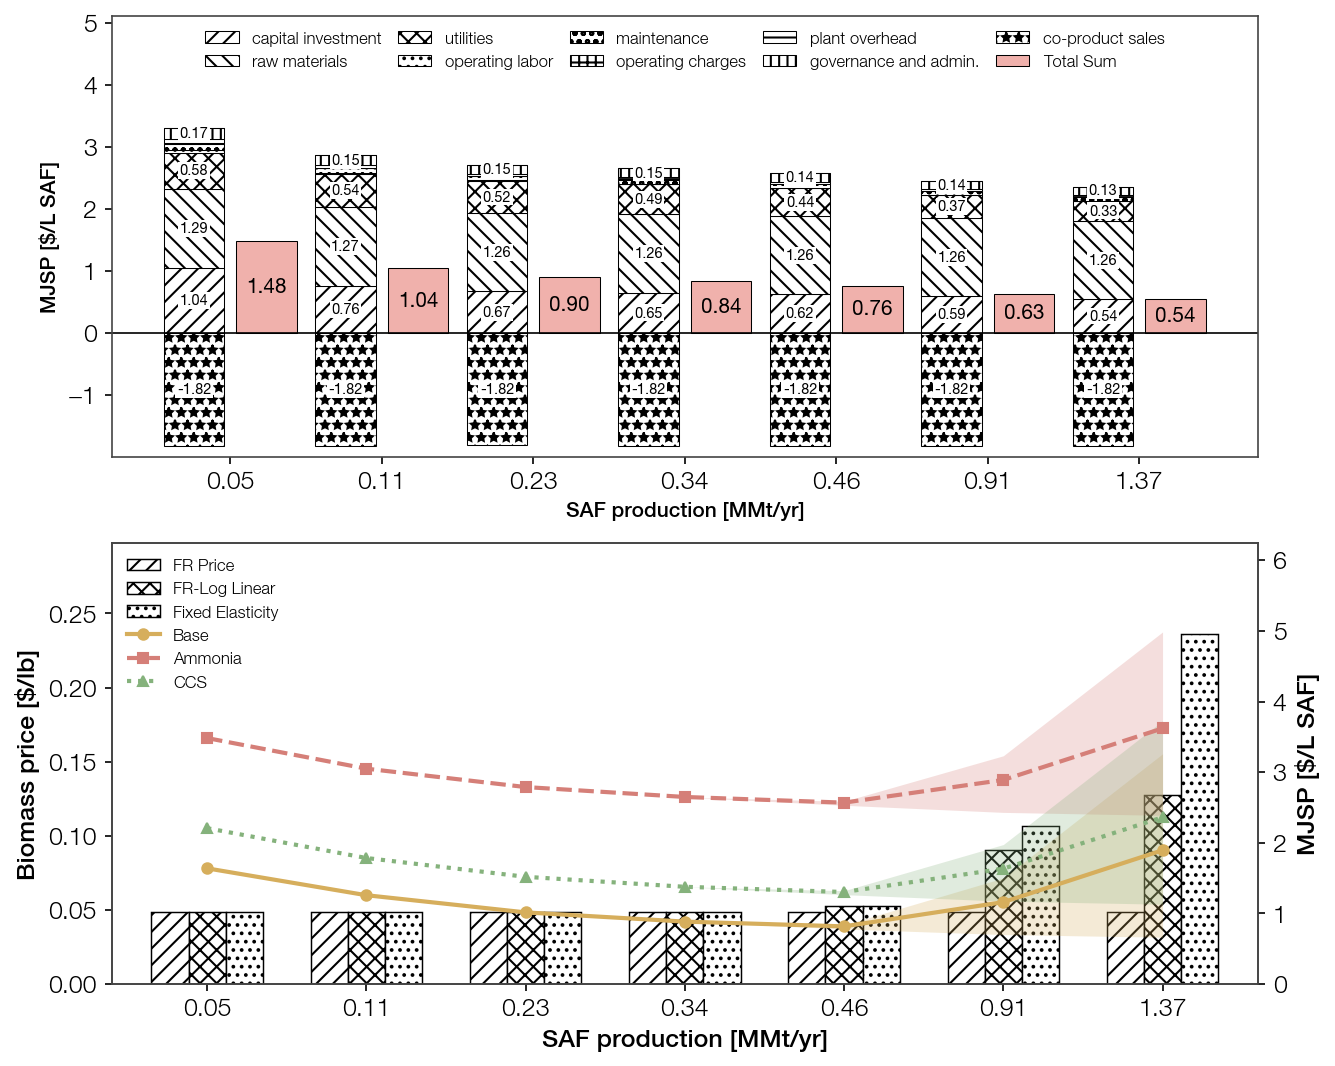
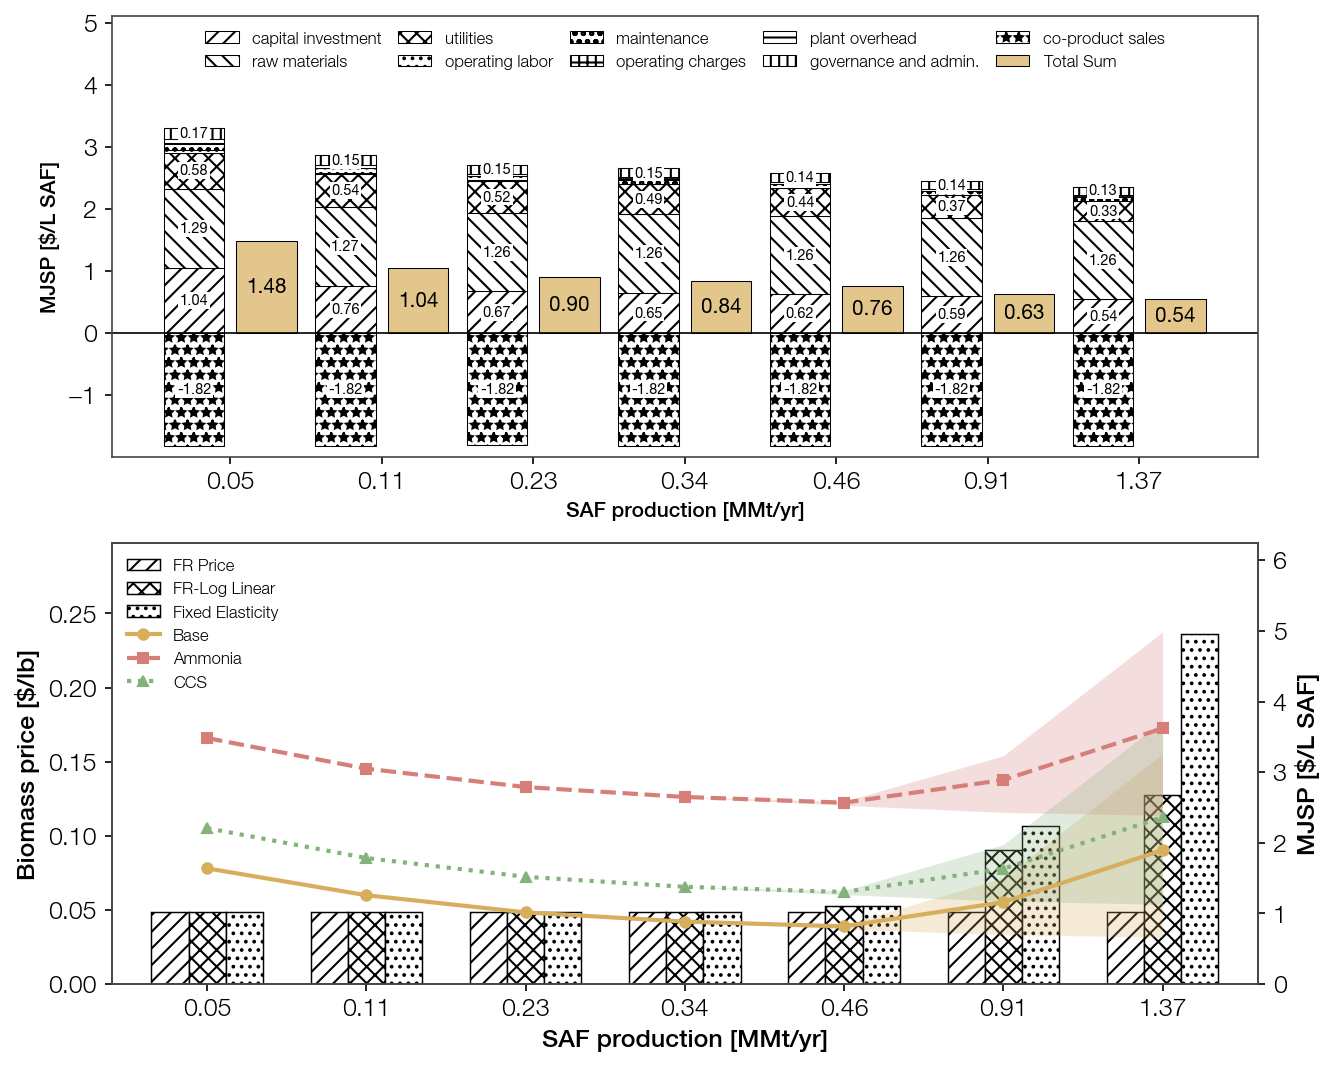
@ Scale-up composite: Base-yellow total bars with ~0.7 fill alpha

diff --git a/plot_scale_up_from_xlsx.py b/plot_scale_up_from_xlsx.py
@@ -41,8 +41,8 @@ df_base.index = xlabels
 stack_hatches = ['///', '\\\\\\', 'xxx', '...', 'ooo', '+++', '---', '|||', '**']   # one per cost column
 fig, (ax_top, ax) = plt.subplots(2, 1, figsize=FIGSIZE)
 # 10 legend entries in 2 rows across the top; ytop leaves headroom above the tallest stack
-# total bar red = raw-materials color of the former colored palette
-plot_stack_bar(df_base, 'MJSP [$/L SAF]', ax=ax_top, hatches=stack_hatches, total_color='#F0B1AC',
+# total bar yellow = Base line color of the lower panel; alpha B3 (~0.7) on fill only, edge stays black
+plot_stack_bar(df_base, 'MJSP [$/L SAF]', ax=ax_top, hatches=stack_hatches, total_color='#D6AE5CB3',
                xlabel=XLABEL, fs=None, ytop=1.55,
                legend_kw=dict(loc='upper center', ncol=5, columnspacing=1.0))
 

diff --git a/Manuscript/_Handbook_for_Manuscript.md b/Manuscript/_Handbook_for_Manuscript.md
@@ -8,6 +8,22 @@
 
 ## Log history
 
+### 2026-10-02 (update 10)
+
+**Discussion**
+- The user asked for the yellow Total Sum bars to be slightly transparent.
+
+**Code**
+- `plot_scale_up_from_xlsx.py`: `total_color` is now `#D6AE5CB3`, an 8-digit hex with alpha ≈ 0.7. Only the fill is transparent; the black edge stays opaque. Figure regenerated.
+
+### 2026-10-02 (update 9)
+
+**Discussion**
+- The user asked for the upper panel's Total Sum bars to use the lower panel's Base yellow instead of the raw-materials red, so that the base-case total and the Base MJSP line share one color.
+
+**Code**
+- `plot_scale_up_from_xlsx.py`: changed `total_color` from `#F0B1AC` to `#D6AE5C` and regenerated `Figure/composite_scale_up_mjsp.png`.
+
 ### 2026-10-02 (update 8)
 
 **Discussion**
